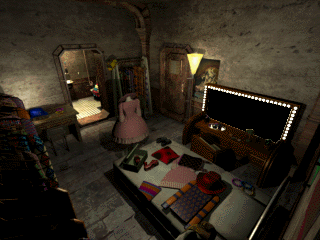
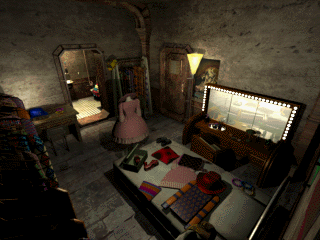
Add mirror overlay for C0304 for proper matching

Changed region(s): [[0.625, 0.35, 0.9062, 0.6125]]

diff --git a/scripts/generate_bg_map.py b/scripts/generate_bg_map.py
@@ -127,6 +127,12 @@ class BackgroundMap:
                 canvas.paste(sky_image, (0, 0), sky_image)
                 canvas.paste(bg_image, (0, 0), bg_image)
                 bg_image = canvas.convert('RGB')
+            elif room_name == 'C0304' and camera_index == 0:
+                # the mirror is a separate texture
+                bg_image = bg_tim.to_image(transparency=Transparency.NONE)
+                mirror_tim = bg_view_manifest.load_file(6, TimFormat).obj
+                mirror_image = mirror_tim.to_image()
+                bg_image.paste(mirror_image, (207, 89), mirror_image)
             else:
                 bg_image = bg_tim.to_image(transparency=Transparency.NONE)
 
